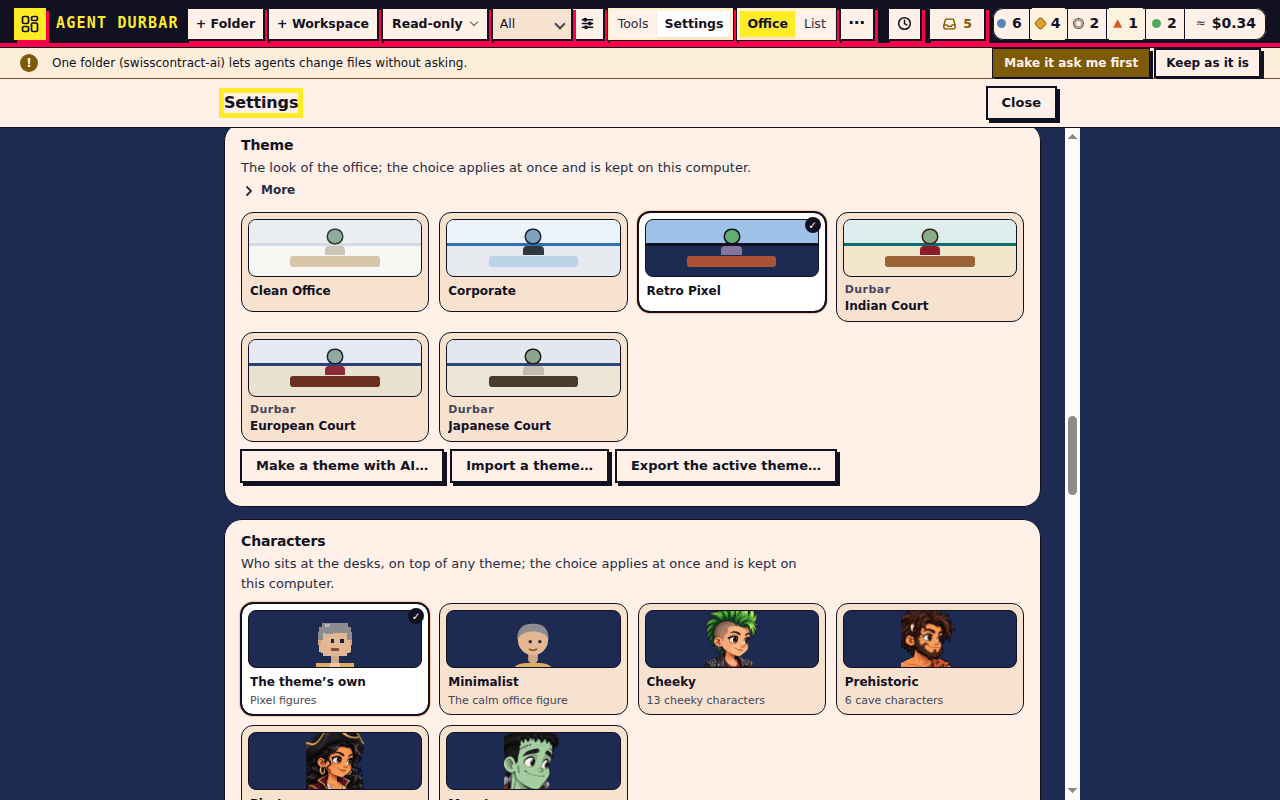
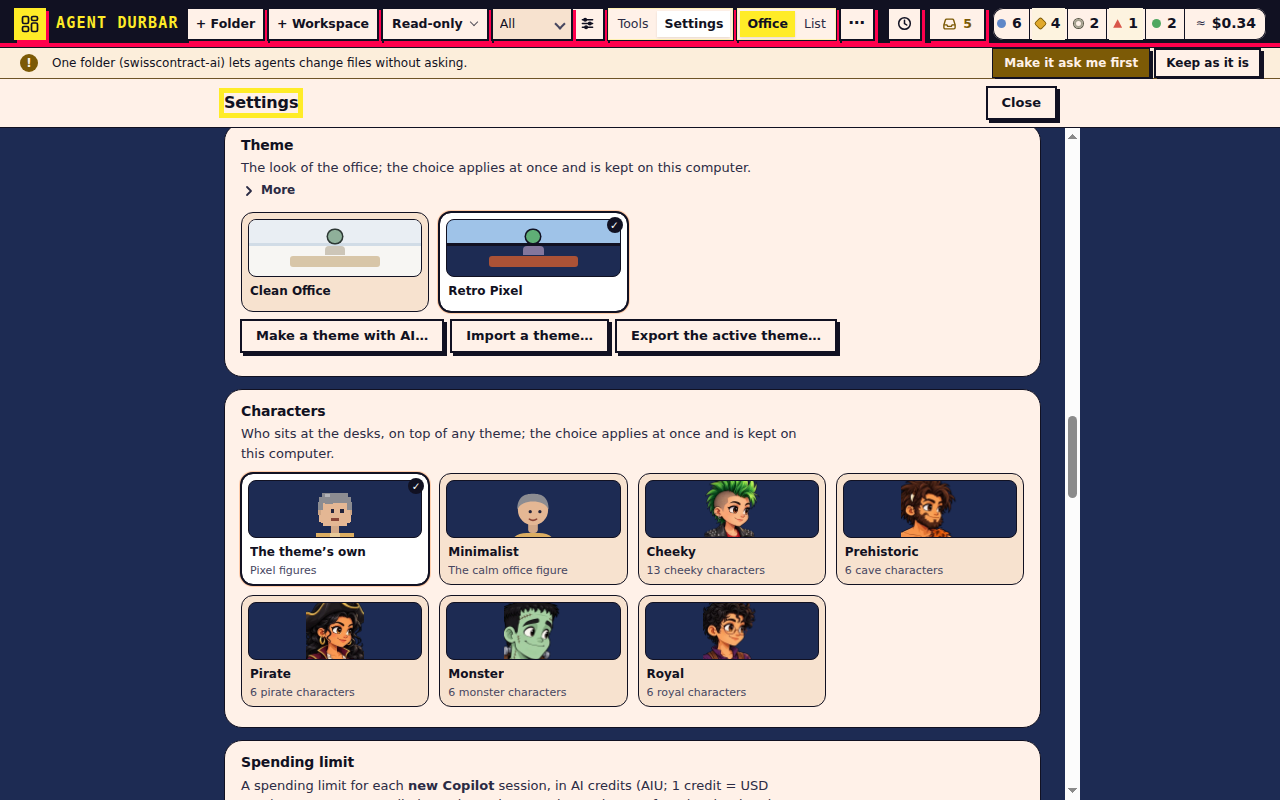
077 FR-076: README and themes docs name the Royal Crew; Settings and theme picker screenshots retaken

Changed region(s): [[0.1562, 0.25, 0.8125, 1.0]]

diff --git a/docs/themes.md b/docs/themes.md
@@ -8,7 +8,7 @@ Settings has two choices, both applied live without a restart: **Theme** (colour
 - **Clean Office:** the default, and the fallback for anything unknown or broken.
 - **Retro Pixel:** a dark arcade page with pixel characters at CRT desks.
 - **Removed on 2026-10-31 (spec 035 FR-017):** Corporate and the three Durbar courts (Indian, European, Japanese). If one was your theme, Durbar switches you once to Clean Office and keeps your Characters choice. A theme of your own that used one of their styles or people-and-furniture kits keeps working: that one value is drawn as Clean Office would, with a note in Settings.
-- **Characters** (spec 077): **The theme's own** (the default: the calm office figure in Clean Office, pixel people in Retro Pixel), **Minimalist** (the calm office figure on any theme), **Cheeky** (experimental): a playful desk and 13 young, cheeky, office-safe characters, or **Prehistoric**: the same desk with 6 friendly cave people. **Pirate**: the same desk with 6 pirates (a captain, an eyepatch sailor, a hook pirate, a cook, a privateer and a cabin boy). **Monster**: the same desk with 6 friendly monsters (Frankenstein, a ghost, a mummy, a sea creature, a vampire and a werewolf). Each session gets one at random, among those the office uses least, kept per session; a picture shows it working, waiting or resting. If a picture is missing, the plain figure is drawn. Each choice has a small preview in Settings. Cheeky Crew used to be a theme: if you had it, Durbar switches you once to Clean Office with Characters = Cheeky (the characters stay; the warm background and desk colours were the old theme's). Checked on the simulator only.
+- **Characters** (spec 077): **The theme's own** (the default: the calm office figure in Clean Office, pixel people in Retro Pixel), **Minimalist** (the calm office figure on any theme), **Cheeky** (experimental): a playful desk and 13 young, cheeky, office-safe characters, or **Prehistoric**: the same desk with 6 friendly cave people. **Pirate**: the same desk with 6 pirates (a captain, an eyepatch sailor, a hook pirate, a cook, a privateer and a cabin boy). **Monster**: the same desk with 6 friendly monsters (Frankenstein, a ghost, a mummy, a sea creature, a vampire and a werewolf). **Royal**: the same desk with 6 royal characters (an alchemist, a princess, a knight, a jester, a queen and a king). Each session gets one at random, among those the office uses least, kept per session; a picture shows it working, waiting or resting. If a picture is missing, the plain figure is drawn. Each choice has a small preview in Settings. Cheeky Crew used to be a theme: if you had it, Durbar switches you once to Clean Office with Characters = Cheeky (the characters stay; the warm background and desk colours were the old theme's). Checked on the simulator only.
 - **Make a theme with AI:** describe a look ("a pirate ship at night"), or pick one of the ideas, and Claude Code, Codex or Copilot designs a light or dark theme: colours, a style, place names (short enough for a lobby tile) and art for the people, furniture, room walls, windows and floors, and the lobby. Durbar keeps only safe values, cleans the art like an imported pack, and checks that text stays readable (also on each room's colour) and that the brand colour shows on lobby icons and buttons; the AI gets up to 3 passes to fix what fails. Try it on the whole app before you save it. One theme costs about a cent on Claude (haiku); Copilot spends AI credits from your plan (shown with the result): about 0.25 AI credits per pass on a free plan, checked on 2026-10-20.
 - **Your own themes:** a folder with a `manifest.json` (colours, fonts, corner radii, shadows, the people's clothes and hair colours, a UI style and a scene kit from fixed lists, small SVG art including the desk's cup and laptop, place names), imported and exported in Settings. A theme is data only: no scripts and no CSS. Fonts are installed system fonts from an allow-list (a theme never downloads a font or loads a font file), sizes and spacing stay the app's so the office always fits, SVG art is rebuilt from allowed shapes, a value that is merely unusable falls back to the default and a text colour that would be hard to read is adjusted just enough (the theme stays light or dark), with a note in Settings, and a pack with markup or CSS in a value is refused with a message (spec 070).
 

diff --git a/README.md b/README.md
@@ -85,7 +85,7 @@ All `npm run` commands, the repository layout and how we work (spec-driven with 
 
 Agent Durbar is by **Three Feathers**. Key contributors: [vikramgorla](https://github.com/vikramgorla), [fjcabello](https://github.com/fjcabello) and [rubenlupi](https://github.com/rubenlupi) (GitHub handles are used as the names). The names live in [`src/shared/about.ts`](src/shared/about.ts) and are shown in the OS About panel and in Settings > About.
 
-The Cheeky, Prehistoric, Pirate and Monster Crew pictures (`src/renderer/crew/art/`) were made by Paco with ChatGPT image generation, and Paco did the final pass; [`ASSETS.md`](src/renderer/crew/art/ASSETS.md) gives the tool and date of each (spec 077). The app id is `io.github.three-feathers.agentdurbar` since 2026-10-16; a build from before then is a separate app to the OS.
+The Cheeky, Prehistoric, Pirate, Monster and Royal Crew pictures (`src/renderer/crew/art/`) were made by Paco with ChatGPT image generation, and Paco did the final pass; [`ASSETS.md`](src/renderer/crew/art/ASSETS.md) gives the tool and date of each (spec 077). The app id is `io.github.three-feathers.agentdurbar` since 2026-10-16; a build from before then is a separate app to the OS.
 
 The Real office pictures (`src/renderer/realoffice/worlds/photo/` for the room, `src/renderer/realoffice/sets/office/` for the people) were made with Codex image generation on Vikram's plan and approved by Vikram, MIT like the code; the `ASSETS.md` in each folder ([room](src/renderer/realoffice/worlds/photo/ASSETS.md), [people](src/renderer/realoffice/sets/office/ASSETS.md)) gives each sheet's tool, date and prompt (spec 097). A world and a set of people are separate packs that load only when shown (the Photo office with the Office people: 6.1 MB; the Prehistoric cave with the Prehistoric people: 1.8 MB, off by default behind a switch until the owner opens it). The cave's pictures were made with Codex image generation on Vikram's plan and approved by Paco ([room](src/renderer/realoffice/worlds/cave/ASSETS.md), [people](src/renderer/realoffice/sets/prehistoric/ASSETS.md)).
 
